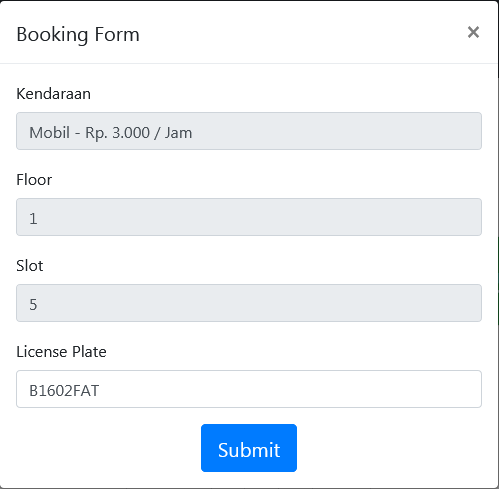
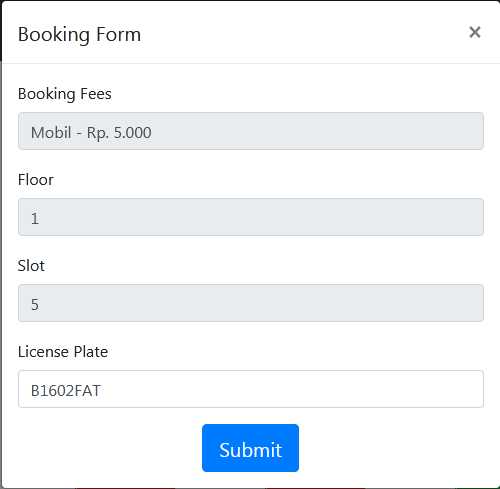
remove motor and add some changes

diff --git a/templates/listbook.html b/templates/listbook.html
@@ -29,12 +29,10 @@
                 <li class="nav-item">
                     <div class="dropdown">
                         <a class="bg-dark text-light nav-link dropdown-toggle" href="#" role="button" id="dropdownMenuLink" data-toggle="dropdown" aria-haspopup="true" aria-expanded="false">
-                            Welcome, Joshua
+                            Welcome, User
                         </a>
                         
                         <div class="dropdown-menu" aria-labelledby="dropdownMenuLink">
-                            <a class="dropdown-item text-primary" href="#">Edit Profile</a>
-                            <br>
                             <a class="bg-danger text-white text-center nav-link" href="../index.html" id="sign-out">Sign Out</a>
                         </div>
                     </div>
@@ -72,7 +70,7 @@
                 </div>
                 <div class="modal-body">
                     <ul class="list-group">
-                        <li class="list-group-item" id="bca" onclick="return confirm_topup(this)">
+                        <li class="list-group-item" id="BCA" onclick="return confirm_topup(this)">
                             <div class="media">
                                 <img src="../assets/img/BCA.png" height="70" width="100" class="mr-3" alt="...">
                                 <div class="media-body">
@@ -81,7 +79,7 @@
                                 </div>
                             </div>
                         </li>
-                        <li class="list-group-item" id="mandiri" onclick="return confirm_topup(this)">
+                        <li class="list-group-item" id="Mandiri" onclick="return confirm_topup(this)">
                             <div class="media">
                                 <img src="../assets/img/Mandiri.png" height="70" width="100" class="mr-3" alt="...">
                                 <div class="media-body">
@@ -90,7 +88,7 @@
                                 </div>
                             </div>
                         </li>
-                        <li class="list-group-item" id="bni" onclick="return confirm_topup(this)">
+                        <li class="list-group-item" id="BNI" onclick="return confirm_topup(this)">
                             <div class="media">
                                 <img src="../assets/img/BNI.png" height="70" width="100" class="mr-3" alt="...">
                                 <div class="media-body">
@@ -99,7 +97,7 @@
                                 </div>
                             </div>
                         </li>
-                        <li class="list-group-item" id="bri" onclick="return confirm_topup(this)">
+                        <li class="list-group-item" id="BRI" onclick="return confirm_topup(this)">
                             <div class="media">
                                 <img src="../assets/img/BRI.png" height="70" width="100" class="mr-3" alt="...">
                                 <div class="media-body">
@@ -117,7 +115,7 @@
             </div>
         </div>
     
-    <!-- Modal Motor -->
+    <!-- Modal Confirm -->
     <div class="modal fade" id="modal-payment" tabindex="-1" role="dialog" aria-labelledby="exampleModalLongTitle" aria-hidden="true">
         <div class="modal-dialog" role="document">
           <div class="modal-content">
@@ -128,7 +126,7 @@
               </button>
             </div>
             <div class="modal-body">
-                <div class="media">
+                <div id="media-confirm" class="media" id="media">
                     <img src="../assets/img/BCA.png" height="70" width="100" class="mr-3" alt="...">
                     <div class="media-body">
                         <h5 class="mt-0">Bank BCA (Dicek Otomatis)</h5>
@@ -143,7 +141,7 @@
                     </div>
                     <div class="form-group">
                         <label class="text-success">Dicek dalam 10 menit setelah pembayaran berhasil</label>
-                        <label class="text-muted" >Hanya menerima dari Bank BCA</label>
+                        <label id="lbl-confirm" class="text-muted" >Hanya menerima dari Bank BCA</label>
                     </div>
                 </form>
             </div>
@@ -210,7 +208,7 @@
     
                         <div class="form-group">
                             <label for="plat">Fees</label>
-                            <input type="text" placeholder="License Plate" class="form-control" name="plat" value="Rp. 15.000" id="plat" readonly>    
+                            <input type="text" placeholder="License Plate" class="form-control" name="plat" value="Rp. 5.000" id="plat" readonly>    
                         </div>
         
                         <div class="text-center">                
@@ -237,7 +235,17 @@
         $(e).addClass("bg-light")
         // document.getElementById(this).className += "border-5 border-primary"
         document.getElementById("confirm-btn").removeAttribute("disabled");
+
+        document.getElementById("media-confirm").innerHTML = 
+        `   <img src="../assets/img/`+e.id+`.png" height="70" width="100" class="mr-3" alt="`+e.id+`">
+            <div class="media-body">
+                <h5 class="mt-0">Bank `+e.id+` (Dicek Otomatis)</h5>
+            </div>
+        `;
+        
+        document.getElementById("lbl-confirm").innerHTML = "Hanya menerima dari Bank "+e.id;
     }
+
 </script>
 
 </html>

diff --git a/templates/park.html b/templates/park.html
@@ -29,12 +29,10 @@
                 <li class="nav-item">
                     <div class="dropdown">
                         <a class="bg-dark text-light nav-link dropdown-toggle" href="#" role="button" id="dropdownMenuLink" data-toggle="dropdown" aria-haspopup="true" aria-expanded="false">
-                            Welcome, Joshua
+                            Welcome, User
                         </a>
                         
                         <div class="dropdown-menu" aria-labelledby="dropdownMenuLink">
-                            <a class="dropdown-item text-primary" href="#">Edit Profile</a>
-                            <br>
                             <a class="bg-danger text-white text-center nav-link" href="../index.html" id="sign-out">Sign Out</a>
                         </div>
                     </div>
@@ -77,7 +75,7 @@
     </ul>
     
     <!-- Modal Motor -->
-    <div class="modal fade" id="modal-motor" tabindex="-1" role="dialog" aria-labelledby="exampleModalLongTitle" aria-hidden="true">
+    <div class="modal fade" id="modal-valet" tabindex="-1" role="dialog" aria-labelledby="exampleModalLongTitle" aria-hidden="true">
         <div class="modal-dialog" role="document">
           <div class="modal-content">
             <div class="modal-header">
@@ -90,8 +88,8 @@
                 <form action="listbook.html" method="post" autocomplete="off">
 
                     <div class="form-group">
-                        <label for="kendaraan">Kendaraan</label>
-                        <input type="text" class="form-control" name="kendaraan" id="kendaraan" value="Motor - Rp. 2.000 / Jam" readonly>    
+                        <label for="kendaraan">Booking Fees</label>
+                        <input type="text" class="form-control" name="kendaraan" id="kendaraan" value="Mobil - Rp. 7.000" readonly>    
                     </div>
 
                     <div class="form-group">
@@ -120,7 +118,7 @@
     </div>
 
     <!-- Modal Mobil -->
-    <div class="modal fade" id="modal-mobil" tabindex="-1" role="dialog" aria-labelledby="exampleModalLongTitle" aria-hidden="true">
+    <div class="modal fade" id="modal-park" tabindex="-1" role="dialog" aria-labelledby="exampleModalLongTitle" aria-hidden="true">
         <div class="modal-dialog" role="document">
           <div class="modal-content">
             <div class="modal-header">
@@ -133,8 +131,8 @@
                 <form action="listbook.html" method="post" autocomplete="off">
 
                     <div class="form-group">
-                        <label for="kendaraan">Kendaraan</label>
-                        <input type="text" class="form-control" name="kendaraan" id="kendaraan" value="Mobil - Rp. 3.000 / Jam" readonly>    
+                        <label for="kendaraan">Booking Fees</label>
+                        <input type="text" class="form-control" name="kendaraan" id="kendaraan" value="Mobil - Rp. 5.000" readonly>    
                     </div>
 
                     <div class="form-group">

diff --git a/assets/js/frontend/parking_map.js b/assets/js/frontend/parking_map.js
@@ -35,7 +35,7 @@ window.addEventListener("load",function(){
                 document.getElementById("list_valet").innerHTML += 
                 `
                 <div class="col-lg-2">
-                    <button id="parking-slot" class="box rounded bg-success border text-center text-white h3" data-toggle="modal" data-target="#modal-motor">
+                    <button id="parking-slot" class="box rounded bg-success border text-center text-white h3" data-toggle="modal" data-target="#modal-valet">
                         `
                         +(i+1)+
                         `
@@ -60,7 +60,7 @@ window.addEventListener("load",function(){
             document.getElementById("list_parking").innerHTML += 
             `
             <div class="col-lg-2">
-                <button id="parking-slot" class="box rounded bg-success border text-center text-white h3" data-toggle="modal" data-target="#modal-mobil">
+                <button id="parking-slot" class="box rounded bg-success border text-center text-white h3" data-toggle="modal" data-target="#modal-park">
                     `
                     +(i+1)+
                     `

diff --git a/index.html b/index.html
@@ -23,10 +23,10 @@
         <div class="justify-content-end">
             <ul class="navbar-nav mr-auto">
                 <li class="nav-item">
-                    <a class="nav-link text-light" href="./templates/register.html" id="sign-out">Register</a>
+                    <a class="nav-link text-light" href="./templates/register.html" id="sign-out">Sign Up</a>
                 </li>
                 <li class="nav-item">
-                    <a class="nav-link text-light" href="./templates/login.html" id="sign-out">Login</a>
+                    <a class="nav-link text-light" href="./templates/login.html" id="sign-out">Sign In</a>
                 </li>
             </ul>    
         </div>
@@ -62,7 +62,7 @@
                     </div>
                     <div class="col-lg-6">
                         <br><br><br>
-                        <h2 class="text-left">Pay per Hour</h2>
+                        <h2 class="text-left">Pay Booking Fee</h2>
                         <p class="h4 text-muted text-left">
                             Pay via Transfer fees 
                         </p> 

diff --git a/templates/dashboard.html b/templates/dashboard.html
@@ -31,7 +31,7 @@
                 <li class="nav-item">
                     <div class="dropdown">
                         <a class="bg-dark text-light nav-link dropdown-toggle" href="#" role="button" id="dropdownMenuLink" data-toggle="dropdown" aria-haspopup="true" aria-expanded="false">
-                            Welcome, Joshua
+                            Welcome, User
                         </a>
                         
                         <div class="dropdown-menu" aria-labelledby="dropdownMenuLink">
